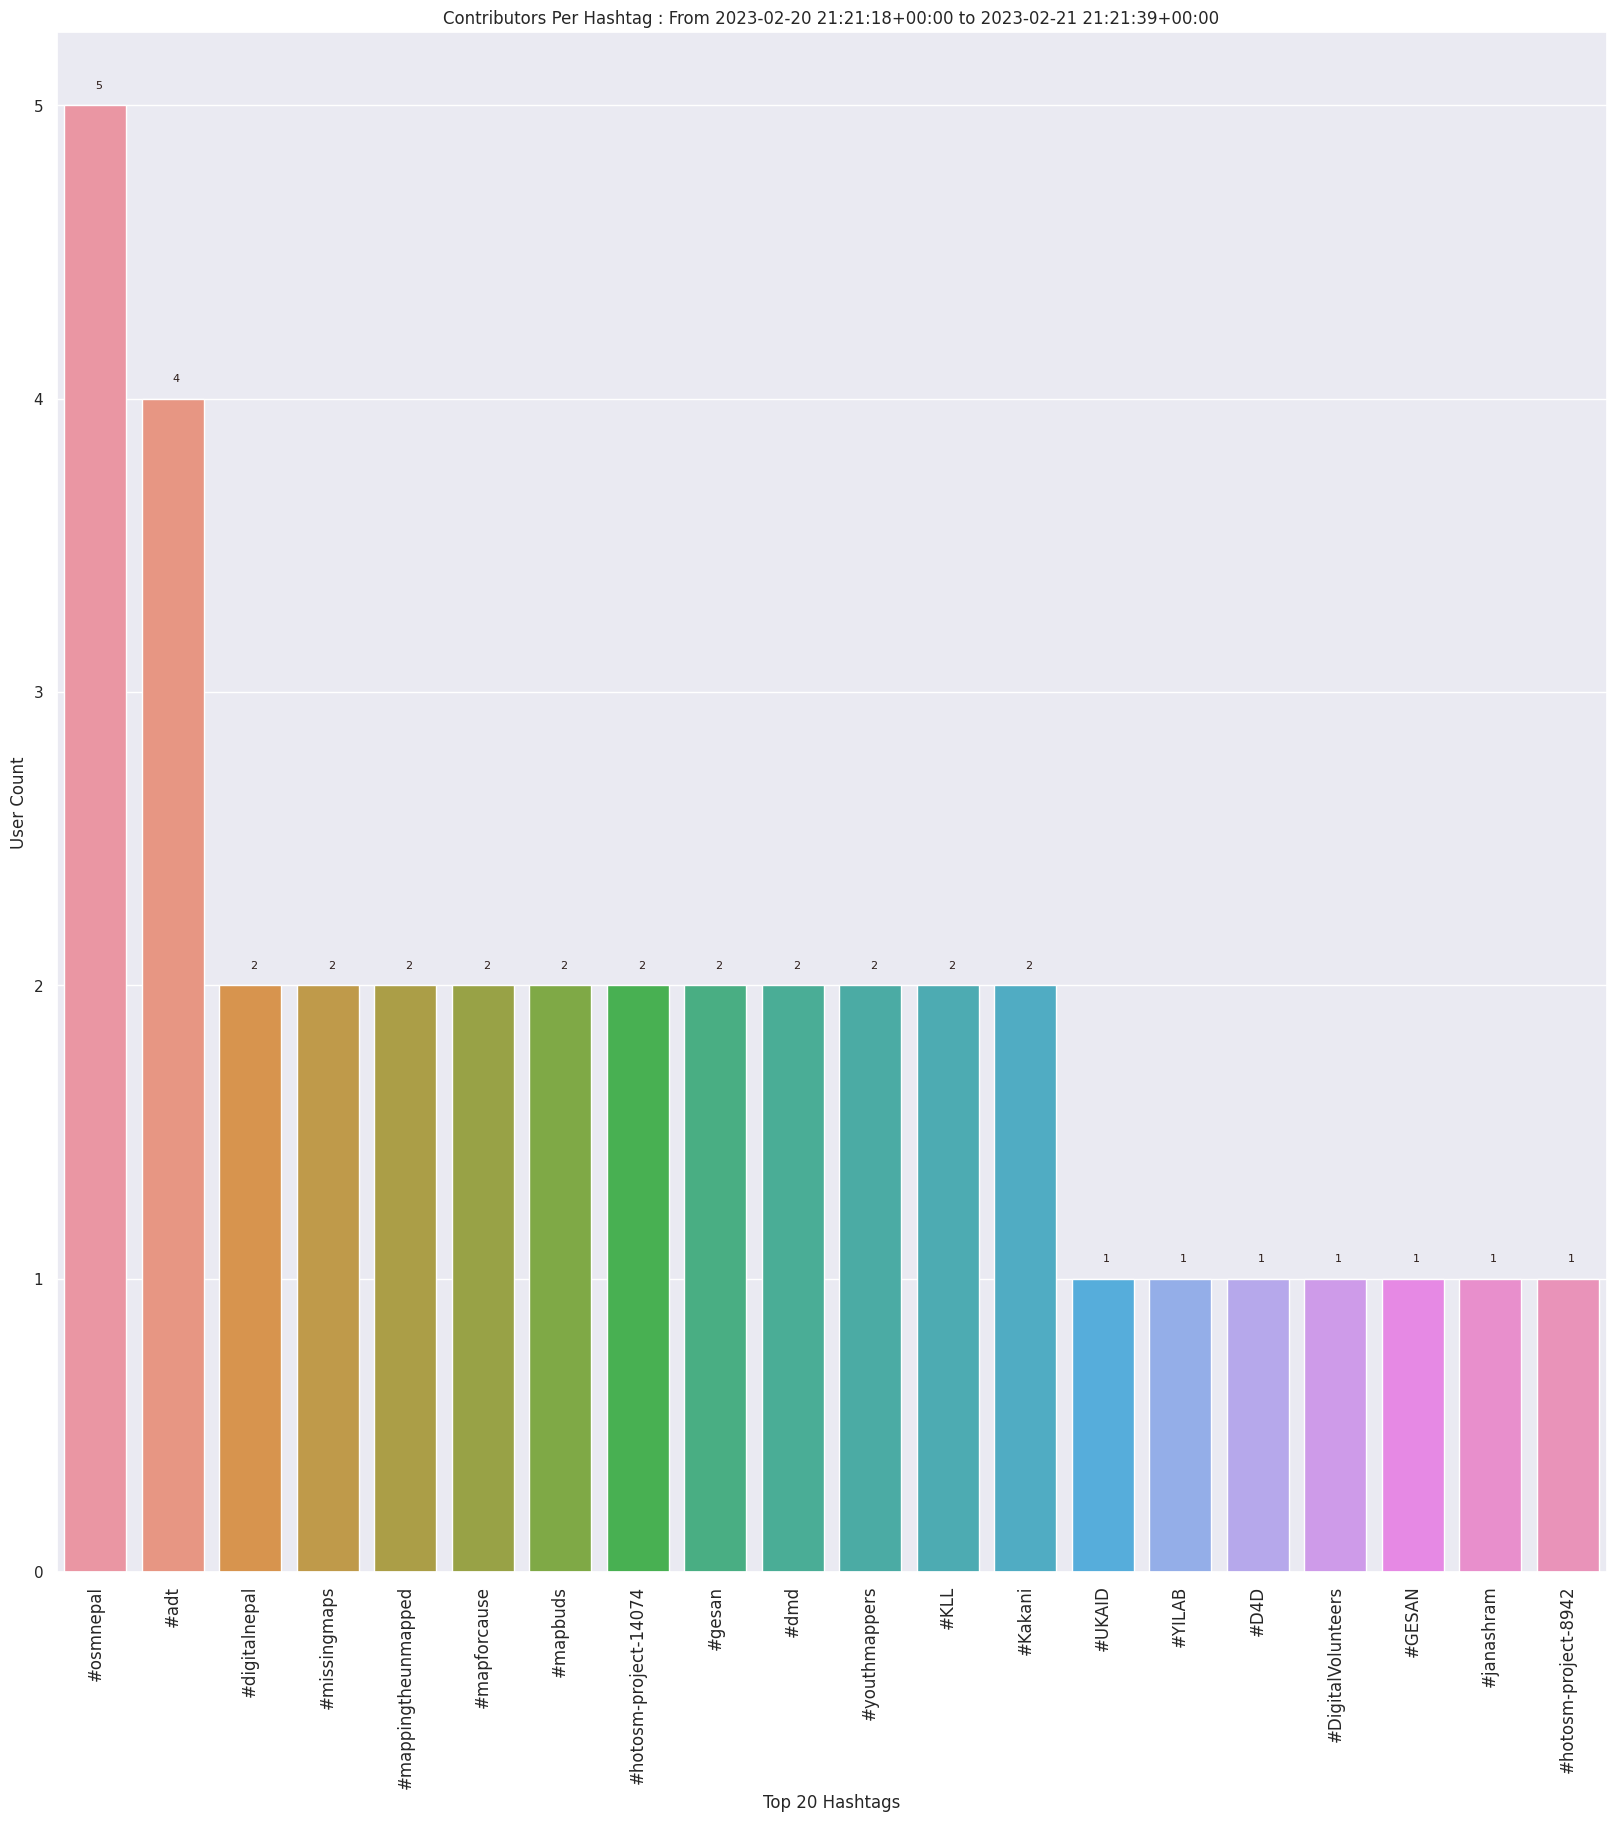
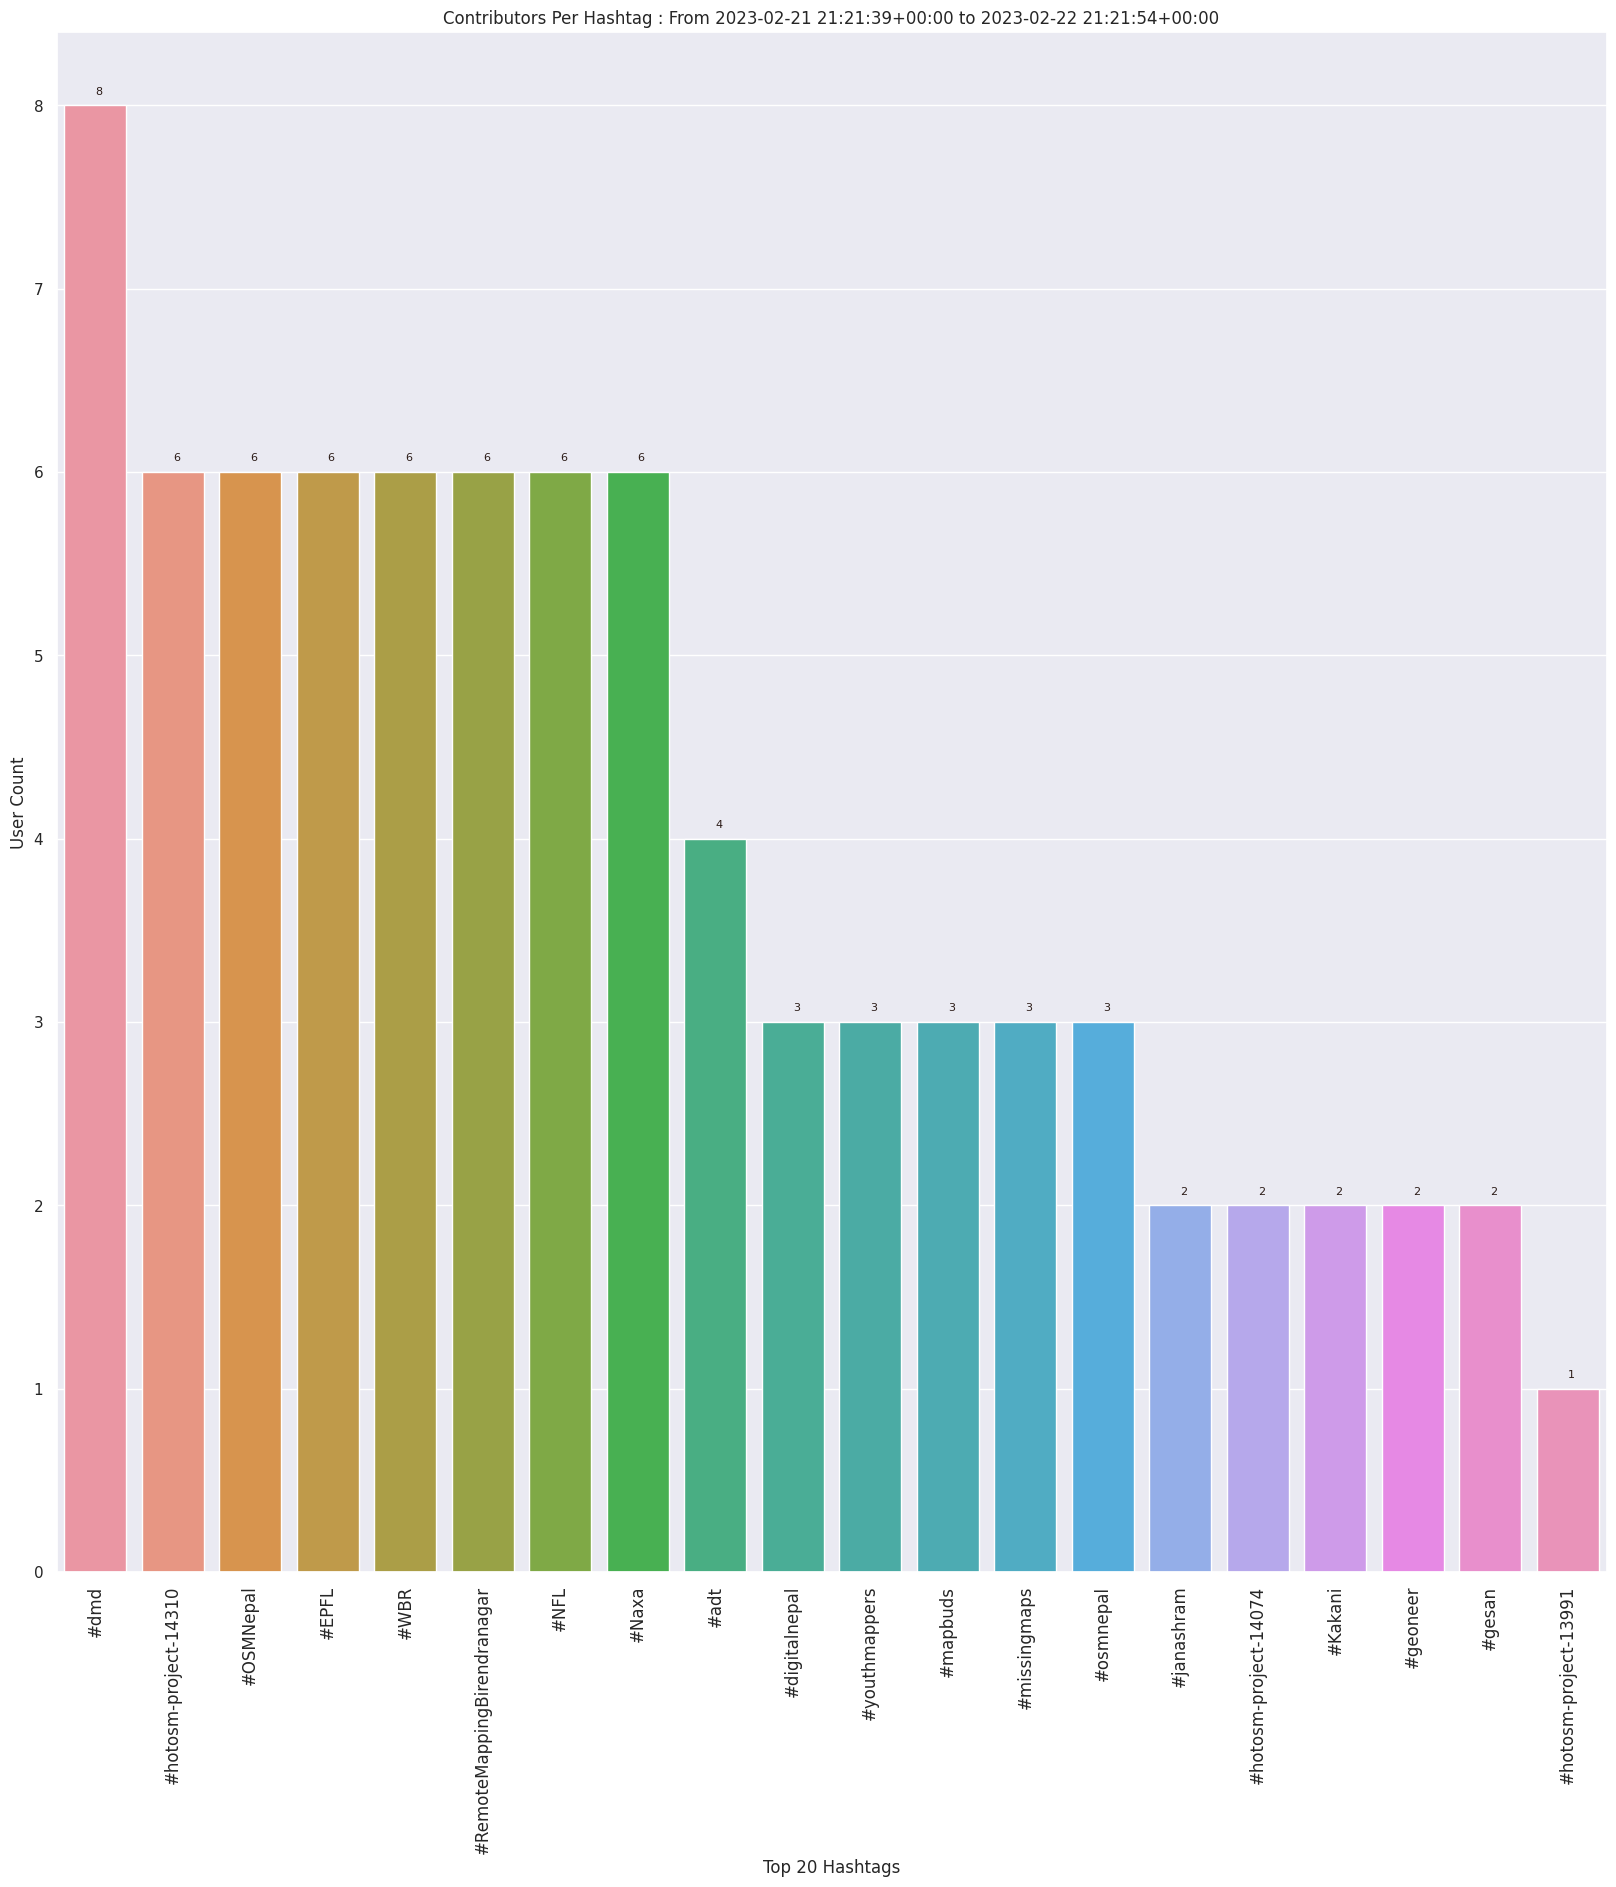
Updated Readme Daily Nepal

diff --git a/stats/Nepal/Daily/README.md b/stats/Nepal/Daily/README.md
@@ -1,10 +1,10 @@
 ### Last Update :
 
-### Stats From 2023-02-21 03:06:18+05:45 to 2023-02-22 03:06:39+05:45
+### Stats From 2023-02-22 03:06:39+05:45 to 2023-02-23 03:06:54+05:45
 
-24 Users made 108 changesets with 31.8 thousand map changes.
-- 27.3 thousand OSM Elements were Created,4.5 thousand Modified & 0 Deleted . Including 1.5 thousand buildings & 49 highways created. marek kleciak tops table with 9.3 thousand changes
-- Top three trending hashtags for those stats are #osmnepal : 5, #adt : 4 & #dmd : 2
+31 Users made 167 changesets with 44.7 thousand map changes.
+- 33.0 thousand OSM Elements were Created,11.7 thousand Modified & 0 Deleted . Including 2.6 thousand buildings & 143 highways created. Anil Basnet tops table with 11.0 thousand changes
+- Top three trending hashtags for those stats are #dmd : 8, #OSMNepal : 6 & #RemoteMappingBirendranagar : 6
 - 
 ![Alt text](./charts/osm_changes.png) 
 ![Alt text](./charts/users_per_hashtag.png) 
